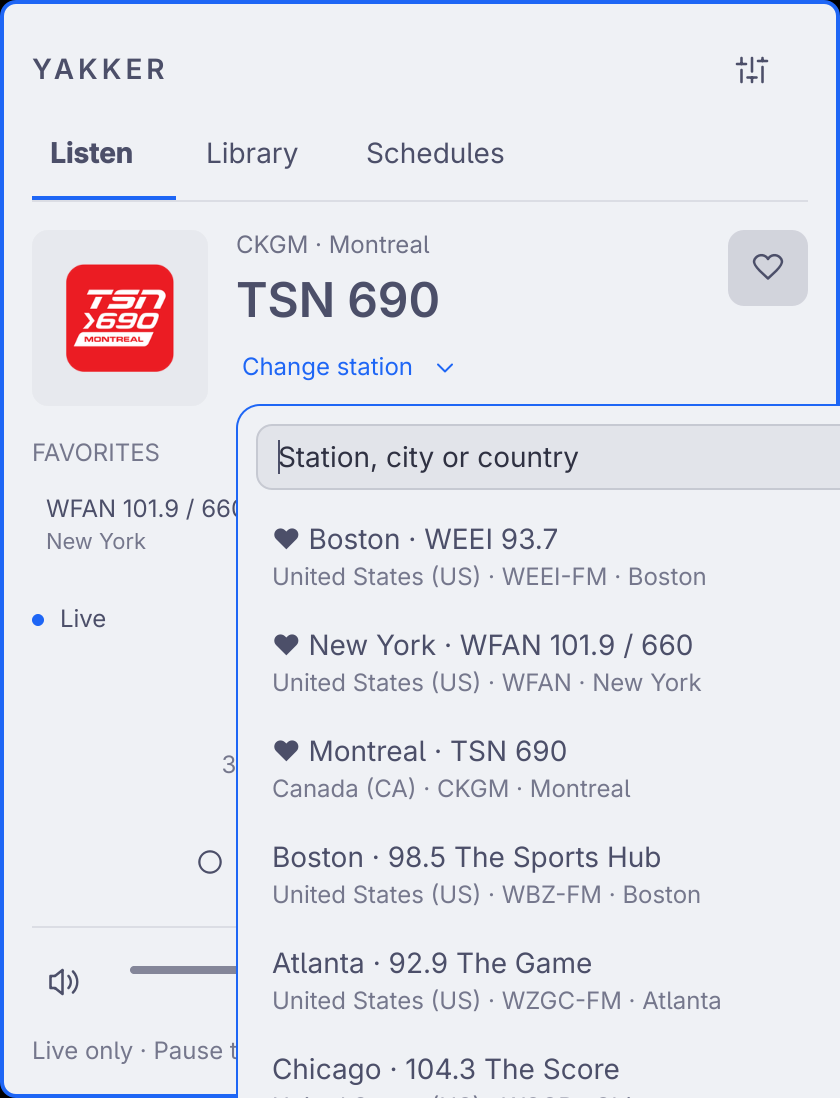
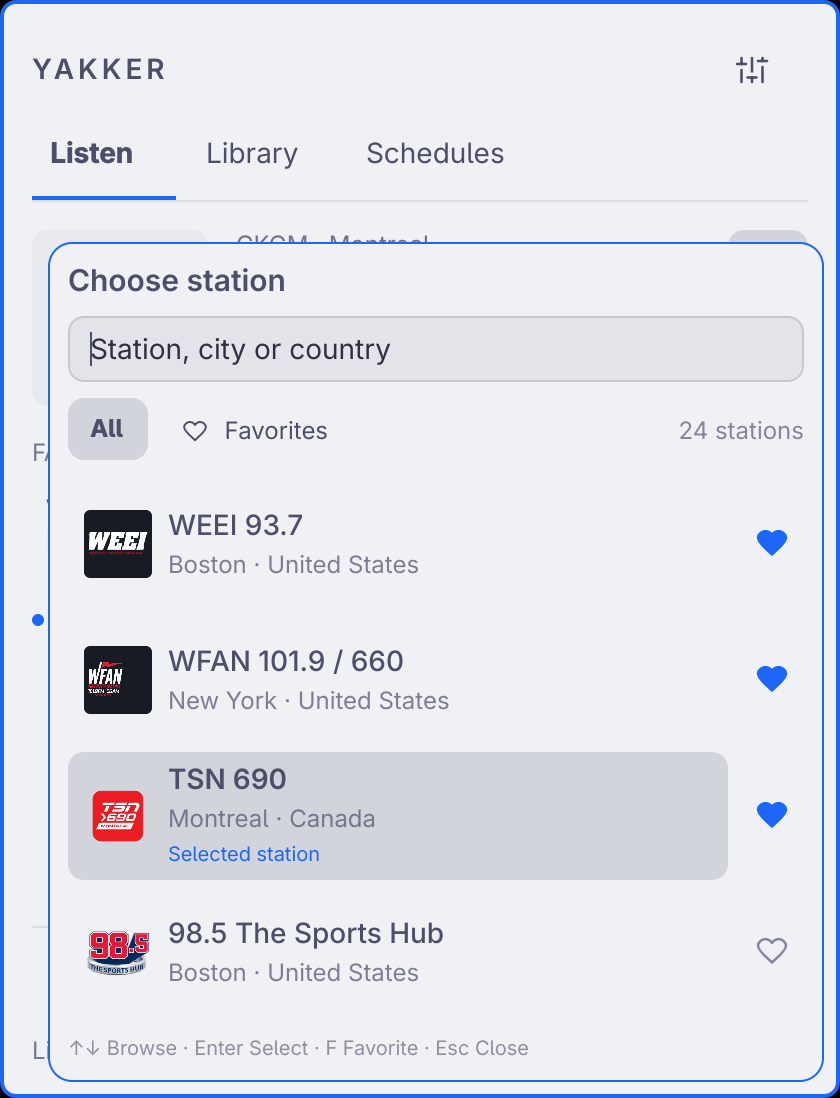
Polish station search results and inline favorite controls

diff --git a/StationPicker.qml b/StationPicker.qml
@@ -1,4 +1,5 @@
 import QtQuick
+import QtQuick.Window
 import QtQuick.Controls as QQC
 import qs.Commons
 import qs.Commons as Commons
@@ -15,21 +16,58 @@ Item {
   property bool hasCursor: false
   property real popupWidth: width
   property real popupX: 0
+  property bool favoritesOnly: false
+  property string highlightedValue: ""
+  property var sessionOrder: []
   readonly property bool popupOpen: popup.opened
-  readonly property var filtered: options.filter(function(option) {
-    const query = search.text.trim().toLowerCase()
-    return !query || (String(option.label) + " " + String(option.description || "")).toLowerCase().indexOf(query) >= 0
-  })
+  readonly property int favoriteCount: options.filter(function(option) { return option.favorite === true }).length
+  readonly property var filtered: {
+    const terms = search.text.trim().toLowerCase().split(/\s+/).filter(function(term) { return !!term })
+    const rows = options.filter(function(option) {
+      const detail = [option.name, option.label, option.description, option.city, option.countryName, option.station ? option.station.country : ""].join(" ").toLowerCase()
+      return (!root.favoritesOnly || option.favorite === true) && terms.every(function(term) { return detail.indexOf(term) >= 0 })
+    })
+    // Keep rows in place while hearts change. Reapply favorite-first order on
+    // the next opening, so a click never moves a different station under it.
+    if (root.popupOpen && root.sessionOrder.length) rows.sort(function(a,b) {
+      const rank = function(option) { const index = root.sessionOrder.indexOf(String(option.value)); return index < 0 ? root.sessionOrder.length : index }
+      return rank(a) - rank(b)
+    })
+    return rows
+  }
+  onFilteredChanged: if (popup.opened) Qt.callLater(restoreCurrent)
   implicitHeight: Style.space(28)
   signal changed(string value)
+  signal favoriteRequested(string value)
   signal hovered(bool isHovered)
   function open() { popup.open() }
   function close() { popup.close() }
   function toggle() { popup.opened ? popup.close() : popup.open() }
+  function nameFor(option) { return String(option.name || option.label || "Station") }
+  function detailsFor(option) {
+    if (!option.station) return String(option.description || "")
+    const location = [option.city, option.countryName].filter(function(part) { return !!part }).join(" · ")
+    return location + (option.station.custom ? (location ? " · " : "") + "Custom" : "")
+  }
+  function setCurrent(index) {
+    list.currentIndex = filtered.length ? Math.max(0, Math.min(filtered.length - 1, index)) : -1
+    highlightedValue = list.currentIndex >= 0 ? String(filtered[list.currentIndex].value) : ""
+    if (list.currentIndex >= 0) list.positionViewAtIndex(list.currentIndex, ListView.Contain)
+  }
+  function restoreCurrent() {
+    if (!popup.opened) return
+    const index = filtered.findIndex(function(option) { return String(option.value) === root.highlightedValue })
+    setCurrent(index >= 0 ? index : Math.max(0, list.currentIndex))
+  }
   function selectCurrent() {
     if (list.currentIndex < 0 || list.currentIndex >= filtered.length) return
     root.changed(String(filtered[list.currentIndex].value))
     popup.close()
+  }
+  function toggleFavorite(value) {
+    highlightedValue = value
+    favoriteRequested(value)
+    Qt.callLater(function() { if (popup.opened) { root.restoreCurrent(); list.forceActiveFocus() } })
   }
   FocusButton {
     height: parent.height
@@ -50,13 +88,19 @@ Item {
     id: popup
     x: root.popupX
     y: root.height + Style.space(4)
-    width: root.popupWidth
+    width: Math.min(root.popupWidth, root.Window.window ? Math.max(0, root.Window.window.width - Style.space(16)) : root.popupWidth)
     padding: Style.space(10)
-    implicitHeight: Math.min(Style.space(360), search.height + list.contentHeight + Style.space(42))
+    margins: Style.space(8)
+    implicitHeight: Math.min(Style.space(420), pickerHeader.implicitHeight + Math.max(Style.space(64), list.contentHeight) + pickerFooter.implicitHeight + Style.space(36))
     focus: true
     closePolicy: QQC.Popup.CloseOnEscape | QQC.Popup.CloseOnPressOutsideParent
-    onOpened: { search.text = ""; list.currentIndex = 0; Qt.callLater(function() { search.forceActiveFocus() }) }
-    onClosed: search.text = ""
+    onOpened: {
+      root.sessionOrder = root.options.map(function(option) { return String(option.value) })
+      root.favoritesOnly = false; search.text = ""
+      root.highlightedValue = root.value
+      Qt.callLater(function() { if (popup.opened) { root.restoreCurrent(); search.forceActiveFocus() } })
+    }
+    onClosed: { search.text = ""; root.sessionOrder = [] }
     background: Ui.BorderSurface {
       color: Commons.Color.popups.background
       radius: Style.space(12)
@@ -64,57 +108,106 @@ Item {
     }
     contentItem: Column {
       spacing: Style.space(8)
-      Ui.TextField {
-        id: search
+      Column {
+        id: pickerHeader
         width: parent.width
-        placeholderText: root.placeholderText
-        Accessible.name: placeholderText
-        font.family: "Adwaita Sans"
-        font.pixelSize: Style.fontPx(1.167)
-        foreground: root.foreground
-        onTextChanged: list.currentIndex = 0
-        Keys.onDownPressed: { if (list.count) list.forceActiveFocus() }
-        Keys.onReturnPressed: root.selectCurrent()
-        Keys.onEnterPressed: root.selectCurrent()
-        Keys.onEscapePressed: root.close()
+        spacing: Style.space(8)
+        Text { width: parent.width; text: "Choose station"; textFormat: Text.PlainText; color: root.foreground; font.family: "Adwaita Sans"; font.pixelSize: Style.fontPx(1.25); font.weight: Font.DemiBold }
+        Row {
+          width: parent.width
+          spacing: Style.space(6)
+          Ui.TextField {
+            id: search
+            width: parent.width - (clearSearch.visible ? clearSearch.width + parent.spacing : 0)
+            placeholderText: root.placeholderText
+            Accessible.name: placeholderText
+            font.family: "Adwaita Sans"
+            font.pixelSize: Style.fontPx(1.167)
+            foreground: root.foreground
+            onTextChanged: root.setCurrent(0)
+            Keys.onDownPressed: { if (list.count) { root.setCurrent(Math.max(0, list.currentIndex)); list.forceActiveFocus() } }
+            Keys.onReturnPressed: root.selectCurrent()
+            Keys.onEnterPressed: root.selectCurrent()
+            Keys.onEscapePressed: root.close()
+          }
+          FocusButton { id: clearSearch; visible: !!search.text; width: Style.space(28); iconName: "close"; iconSize: Style.space(14); tooltipText: "Clear search"; foreground: root.foreground; focusable: true; onClicked: { search.text = ""; search.forceActiveFocus() } }
+        }
+        Row {
+          width: parent.width
+          spacing: Style.space(6)
+          FocusButton { id: allFilter; text: "All"; fontSize: Style.fontPx(1); foreground: root.foreground; selected: !root.favoritesOnly; focusable: true; onClicked: { root.favoritesOnly = false; root.setCurrent(0) } }
+          FocusButton { id: favoritesFilter; text: "Favorites"; iconName: "heart"; iconSize: Style.space(14); fontSize: Style.fontPx(1); foreground: root.foreground; selected: root.favoritesOnly; focusable: true; onClicked: { root.favoritesOnly = true; root.setCurrent(0) } }
+          Text { width: Math.max(0, parent.width - allFilter.width - favoritesFilter.width - parent.spacing * 2); anchors.verticalCenter: parent.verticalCenter; text: root.filtered.length + (root.filtered.length === 1 ? " station" : " stations"); horizontalAlignment: Text.AlignRight; textFormat: Text.PlainText; color: Qt.alpha(root.foreground, 0.65); font.family: "Adwaita Sans"; font.pixelSize: Style.fontPx(1) }
+        }
       }
       ListView {
         id: list
         width: parent.width
-        height: Math.max(0, popup.availableHeight - search.height - parent.spacing)
+        height: Math.max(0, popup.availableHeight - pickerHeader.height - pickerFooter.height - parent.spacing * 2)
         clip: true
+        onHeightChanged: if (popup.opened) Qt.callLater(root.restoreCurrent)
         model: root.filtered
-        spacing: Style.space(2)
-        currentIndex: 0
+        spacing: Style.space(4)
+        currentIndex: -1
         boundsBehavior: Flickable.StopAtBounds
         QQC.ScrollBar.vertical: QQC.ScrollBar { policy: QQC.ScrollBar.AsNeeded }
-        Keys.onUpPressed: { if (currentIndex <= 0) search.forceActiveFocus(); else currentIndex-- }
-        Keys.onDownPressed: currentIndex = Math.min(count - 1, currentIndex + 1)
+        Keys.onUpPressed: { if (currentIndex <= 0) search.forceActiveFocus(); else root.setCurrent(currentIndex - 1) }
+        Keys.onDownPressed: root.setCurrent(currentIndex + 1)
         Keys.onReturnPressed: root.selectCurrent()
         Keys.onEnterPressed: root.selectCurrent()
         Keys.onEscapePressed: root.close()
-        delegate: FocusButton {
+        Keys.onPressed: event => {
+          if (event.key === Qt.Key_F && event.modifiers === Qt.NoModifier && list.currentIndex >= 0) {
+            root.toggleFavorite(String(root.filtered[list.currentIndex].value)); event.accepted = true
+          }
+        }
+        delegate: Item {
+          id: stationRow
           required property var modelData
           required property int index
           width: list.width
-          height: labels.implicitHeight + Style.space(16)
-          hasCursor: list.activeFocus && list.currentIndex === index
-          foreground: root.foreground
-          tooltipText: modelData.label + (modelData.description ? " · " + modelData.description : "")
-          onClicked: { list.currentIndex = index; root.selectCurrent() }
-          onHovered: isHovered => { if (isHovered) list.currentIndex = index }
-          Column {
-            id: labels
+          height: Style.space(64)
+          FocusButton {
+            id: stationResult
+            width: parent.width - favoriteButton.width - Style.space(6)
+            height: parent.height
+            selected: String(stationRow.modelData.value) === root.value
+            hasCursor: list.activeFocus && list.currentIndex === stationRow.index
+            foreground: root.foreground
+            tooltipText: root.nameFor(stationRow.modelData) + (root.detailsFor(stationRow.modelData) ? " · " + root.detailsFor(stationRow.modelData) : "")
+            onClicked: { root.setCurrent(stationRow.index); root.selectCurrent() }
+            onHovered: isHovered => { if (isHovered) root.setCurrent(stationRow.index) }
+            StationLogo { id: stationArtwork; x: Style.space(8); width: Style.space(34); height: width; anchors.verticalCenter: parent.verticalCenter; station: stationRow.modelData.station || ({}); fallbackColor: root.foreground }
+            Column {
+              anchors.verticalCenter: parent.verticalCenter
+              x: Style.space(50)
+              width: parent.width - x - Style.space(8)
+              spacing: Style.space(4)
+              Text { id: stationTitle; width: parent.width; text: root.nameFor(stationRow.modelData); textFormat: Text.PlainText; color: root.foreground; font.family: "Adwaita Sans"; font.pixelSize: Style.fontPx(1.167); font.weight: stationResult.selected ? Font.DemiBold : Font.Medium; elide: Text.ElideRight }
+              Text { width: parent.width; text: root.detailsFor(stationRow.modelData); textFormat: Text.PlainText; color: Qt.alpha(root.foreground, 0.7); font.family: "Adwaita Sans"; font.pixelSize: Style.fontPx(1); elide: Text.ElideRight; visible: !!text }
+              Text { visible: stationResult.selected; text: "Selected station"; textFormat: Text.PlainText; color: Commons.Color.accent; font.family: "Adwaita Sans"; font.pixelSize: Style.fontPx(0.833) }
+            }
+          }
+          FocusButton {
+            id: favoriteButton
+            width: Style.space(32)
+            height: Style.space(36)
+            anchors.right: parent.right
             anchors.verticalCenter: parent.verticalCenter
-            x: Style.space(8)
-            width: parent.width - Style.space(16)
-            spacing: Style.space(3)
-            Text { width: parent.width; text: modelData.label; textFormat: Text.PlainText; color: root.foreground; font.family: "Adwaita Sans"; font.pixelSize: Style.fontPx(1.167); elide: Text.ElideRight }
-            Text { width: parent.width; text: modelData.description || ""; textFormat: Text.PlainText; color: root.foreground; opacity: 0.75; font.family: "Adwaita Sans"; font.pixelSize: Style.fontPx(1); elide: Text.ElideRight; visible: text.length > 0 }
+            horizontalPadding: 0
+            iconName: stationRow.modelData.favorite ? "heart-filled" : "heart"
+            iconSize: Style.space(18)
+            foreground: stationRow.modelData.favorite ? Commons.Color.accent : Qt.alpha(root.foreground, 0.65)
+            tooltipText: (stationRow.modelData.favorite ? "Remove favorite · " : "Add favorite · ") + root.nameFor(stationRow.modelData)
+            Accessible.checkable: true
+            Accessible.checked: stationRow.modelData.favorite === true
+            focusable: true
+            onClicked: root.toggleFavorite(String(stationRow.modelData.value))
           }
         }
-        Text { visible: list.count === 0; width: parent.width; text: root.emptyText; textFormat: Text.PlainText; color: root.foreground; font.family: "Adwaita Sans"; font.pixelSize: Style.fontPx(1.167); padding: Style.space(8) }
+        Text { visible: list.count === 0; width: parent.width; text: root.favoritesOnly && !root.favoriteCount ? "No favorites yet. Use the hearts in All to save stations." : root.emptyText; textFormat: Text.PlainText; color: Qt.alpha(root.foreground, 0.7); font.family: "Adwaita Sans"; font.pixelSize: Style.fontPx(1); wrapMode: Text.Wrap; padding: Style.space(8) }
       }
+      Text { id: pickerFooter; width: parent.width; text: "↑↓ Browse · Enter Select · F Favorite · Esc Close"; textFormat: Text.PlainText; color: Qt.alpha(root.foreground, 0.6); font.family: "Adwaita Sans"; font.pixelSize: Style.fontPx(0.833); wrapMode: Text.Wrap }
     }
   }
 }

diff --git a/tools/qml-smoke/recordings.qml b/tools/qml-smoke/recordings.qml
@@ -121,6 +121,50 @@ ShellRoot {
           console.log("QA: chosen station", panel.radio.stationId, panel.radio.hasStation, panel.testStationPicker.popupOpen, panel.radio.error)
           tryVerify(function() { return panel.radio.stationId === "wfan" && panel.radio.hasStation }, 3000)
           verify(!panel.radio.wanted, "Choosing a station started playback")
+          console.log("QA: station picker search and hearts")
+          panel.radio.favoriteIds = []
+          panel.testStationPicker.open()
+          tryVerify(function() { return panel.testStationPicker.testSearch.activeFocus }, 2000)
+          panel.testStationPicker.testSearch.text = "weei Boston US"
+          tryVerify(function() { return panel.testStationPicker.testList.count === 1 && !!panel.testStationPicker.testList.itemAtIndex(0) }, 2000)
+          var pickerRow = panel.testStationPicker.testList.itemAtIndex(0)
+          compare(pickerRow.testTitle.text, "WEEI 93.7")
+          pickerRow.testFavorite.clicked()
+          verify(panel.radio.favoriteIds.indexOf("weei-fm") >= 0)
+          verify(panel.testStationPicker.popupOpen && panel.radio.stationId === "wfan" && !panel.radio.wanted, "Favorite control tuned a station or closed the picker")
+          compare(panel.testStationPicker.testSearch.text, "weei Boston US")
+          tryVerify(function() { return panel.testStationPicker.highlightedValue === "weei-fm" }, 2000)
+          panel.testStationPicker.testList.forceActiveFocus(); keyClick(Qt.Key_F)
+          verify(panel.radio.favoriteIds.indexOf("weei-fm") < 0 && panel.testStationPicker.popupOpen)
+          panel.testStationPicker.testClear.clicked()
+          compare(panel.testStationPicker.testSearch.text, "")
+          panel.testStationPicker.testFavorites.clicked()
+          compare(panel.testStationPicker.filtered.length, 0)
+          panel.testStationPicker.testAll.clicked()
+          const pickerStations = panel.radio.stations
+          panel.radio.stations = pickerStations.concat([{id:"picker-markup",name:"<b>Literal radio</b>",city:"<img src='remote'>",country:"US",custom:true,streamUrl:"http://127.0.0.1:1/fixture"}])
+          panel.testStationPicker.testSearch.text = "literal"
+          tryVerify(function() { return panel.testStationPicker.testList.count === 1 && !!panel.testStationPicker.testList.itemAtIndex(0) }, 2000)
+          pickerRow = panel.testStationPicker.testList.itemAtIndex(0)
+          compare(pickerRow.testTitle.text, "<b>Literal radio</b>")
+          compare(pickerRow.testTitle.textFormat, Text.PlainText)
+          verify(pickerRow.testResult.tooltipText.indexOf("<b>Literal radio</b>") === 0)
+          panel.radio.stations = pickerStations
+          panel.testStationPicker.close()
+          panel.radio.favoriteIds = ["weei-fm"]
+          panel.testStationPicker.open()
+          tryVerify(function() { return panel.testStationPicker.testSearch.activeFocus }, 2000)
+          compare(panel.testStationPicker.filtered[0].value, "weei-fm", "Favorites were not sorted first on reopening")
+          window.width = 320; window.height = 300
+          wait(50)
+          verify(panel.testStationPicker.testPopup.width <= window.width && panel.testStationPicker.testPopup.height <= window.height, "Station picker escaped the small window")
+          const pickerCorner = panel.testStationPicker.testPopup.background.mapToItem(window.contentItem, 0, 0)
+          verify(pickerCorner.x >= 0 && pickerCorner.x + panel.testStationPicker.testPopup.background.width <= window.width, "Picker edge was clipped by the window")
+          capture("station-picker-small")
+          keyClick(Qt.Key_Escape)
+          tryVerify(function() { return !panel.testStationPicker.popupOpen }, 2000)
+          window.width = 420; window.height = 650
+          wait(50)
           panel.radio.favoriteIds = ["wfan", "tsn-690"]
           tryCompare(panel.testPresets, "count", 2)
           panel.testPresets.itemAt(1).clicked()

diff --git a/RadioService.qml b/RadioService.qml
@@ -74,7 +74,9 @@ Item {
     const favorites = [], others = []
     for (const item of stations) {
       const favorite = root.favoriteIds.indexOf(item.id) !== -1
-      const option = {value: item.id, label: (favorite ? "♥ " : "") + (item.city ? item.city + " · " : "") + item.name,
+      const option = {value: item.id, name: item.name, city: item.city || "", favorite: favorite, station: item,
+        countryName: ({US:"United States", CA:"Canada", GB:"United Kingdom", IE:"Ireland"})[item.country] || item.country || "",
+        label: (favorite ? "♥ " : "") + (item.city ? item.city + " · " : "") + item.name,
         description: (root.countryNames[item.country] || item.country || "") + (item.subtitle ? " · " + item.subtitle : "")}
       if (favorite) favorites.push(option); else others.push(option)
     }

diff --git a/FocusIcon.qml b/FocusIcon.qml
@@ -16,6 +16,7 @@ Image {
     "record": '<circle cx="12" cy="12" r="8"/>',
     "moon": '<path d="M20 15A9 9 0 0 1 9 4a9 9 0 1 0 11 11z"/>',
     "settings": '<path d="M5 4v4m0 4v8M12 4v9m0 4v3M19 4v2m0 4v10M2 8h6m1 9h6m1-11h6"/>',
+    "heart-filled": '<path d="M20 5a5 5 0 0 0-8 1 5 5 0 0 0-8-1c-3 3-1 6 8 14 9-8 11-11 8-14z" fill="currentColor"/>',
     "heart": '<path d="M20 5a5 5 0 0 0-8 1 5 5 0 0 0-8-1c-3 3-1 6 8 14 9-8 11-11 8-14z"/>',
     "volume": '<path d="M11 4L6 8H3v8h3l5 4zM15 8a6 6 0 0 1 0 8M18 5a10 10 0 0 1 0 14"/>',
     "muted": '<path d="M11 4L6 8H3v8h3l5 4zM16 9l6 6m0-6l-6 6"/>',

diff --git a/Panel.qml b/Panel.qml
@@ -868,6 +868,7 @@ Ui.Panel {
                     emptyText: "No matching stations"
                     value: root.radio.stationId
                     options: root.radio.stationOptions
+                    onFavoriteRequested: value => root.radio.toggleFavorite(value)
                     foreground: root.barForeground
                     hasCursor: root.cursor === 0
                     onHovered: hovered => { if (hovered) root.cursor = 0 }

diff --git a/tools/test-recordings-ui.py b/tools/test-recordings-ui.py
@@ -126,6 +126,8 @@ def main():
         property alias testProgress: listeningProgress
         property alias testTitle: recordTitle""", 1))
         view.write_text(view.read_text().replace('        id: scheduleRow', '        id: scheduleRow\n        property alias testEdit: scheduleEditButton\n        property alias testTitle: scheduleTitle', 1))
+        picker = plugin / "StationPicker.qml"
+        picker.write_text(picker.read_text().replace('  property string value: ""', '  property alias testSearch: search\n  property alias testList: list\n  property alias testPopup: popup\n  property alias testAll: allFilter\n  property alias testFavorites: favoritesFilter\n  property alias testClear: clearSearch\n  property string value: ""', 1).replace('          id: stationRow', '          id: stationRow\n          property alias testTitle: stationTitle\n          property alias testFavorite: favoriteButton\n          property alias testResult: stationResult', 1))
         service = plugin / "RadioService.qml"
         service.write_text(service.read_text().replace('  property int clients: 0', '  property alias testHelper: helper\n  property int clients: 0', 1))
         stations = json.loads((ROOT / "stations.json").read_text())

diff --git a/README.md b/README.md
@@ -146,7 +146,13 @@ an active player; **Stop** releases it. Playing a stopped radio starts a fresh
 live stream. Closing the popup leaves audio playing.
 Right-click the bar icon to open the station list directly.
 The popup includes a text-style searchable station selector, volume, mute, connection status, and Retry after errors. Compact underline tabs and proportional typography keep the station name and transport controls prominent.
-Search by station, city or country—for example, `690`, `Seattle`, `UK` or `Ireland`.
+Search by station, city or country—for example, `690`, `Seattle`, `UK` or
+`Ireland`; multiple words narrow the results together. Results show station
+artwork, name, location and the selected station. **All / Favorites** filters
+make saved stations easy to find. Use each row's heart to save or remove a
+favorite without tuning in or closing the picker. Rows stay in place while you
+change hearts, and favorites sort first on the next opening. Down/Up browses,
+Enter selects, F toggles the highlighted favorite, and Escape closes.
 Changing stations while playing makes a fresh live connection; while stopped it
 selects the next station without starting playback. The last station, volume,
 mute setting and listening buffer length are remembered across shell restarts.
